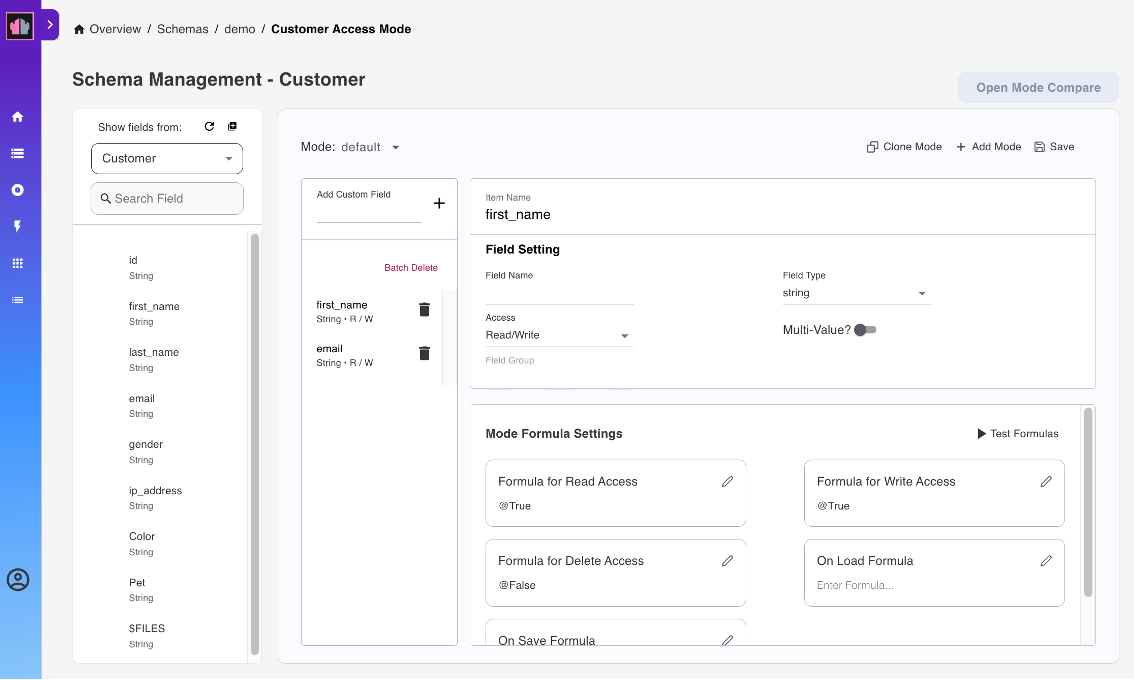
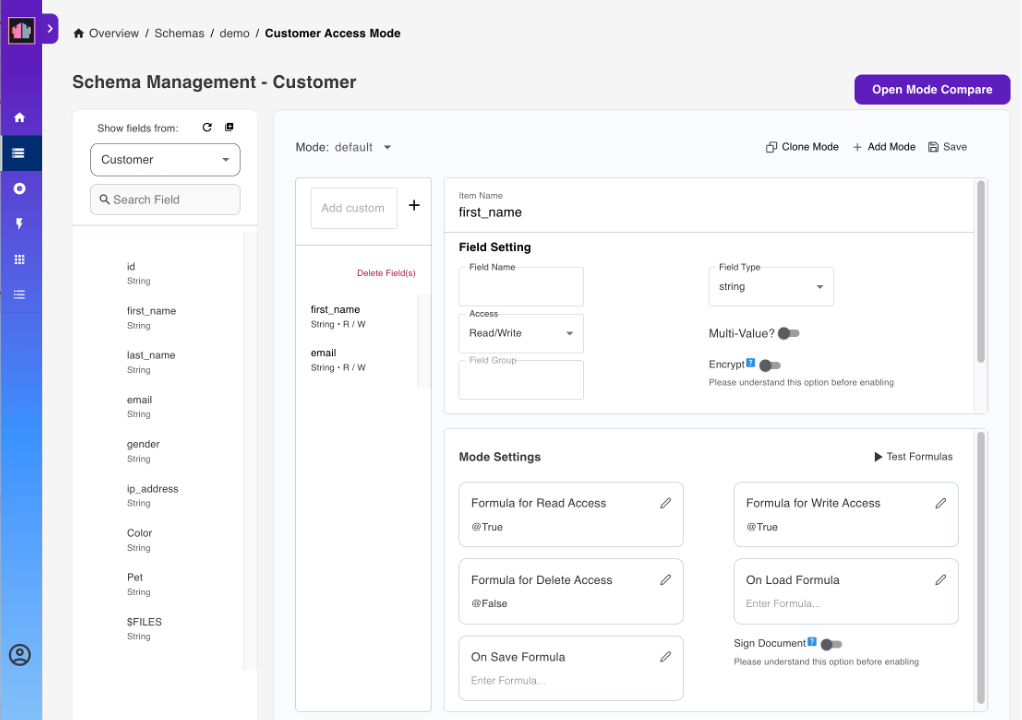
Encrypt and signing update

diff --git a/docs/references/usingwebui/schemaui.md b/docs/references/usingwebui/schemaui.md
@@ -168,6 +168,8 @@ All forms are now activated with default settings and have **Active** status.
     - Enter a custom field name in the **Add custom field** and click the **+** icon to add a custom field to the form.
     - Click **Delete Fields**, select the fields to remove, and then click **Remove** to remove the selected fields from the form.
     - Click the **Multi-Value** toggle to the on position to specify a **Field Group**. The **Multi-Value** toggle isn't clickable to the off position if a field group is specified.
+    - Click the **Encrypt** toggle to the on position to ...
+    - Click the **Sign Document** toggle to the on position to ...
 
 ## Add a mode
 
